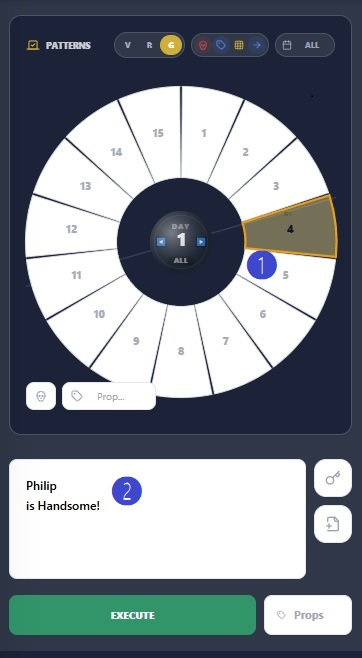
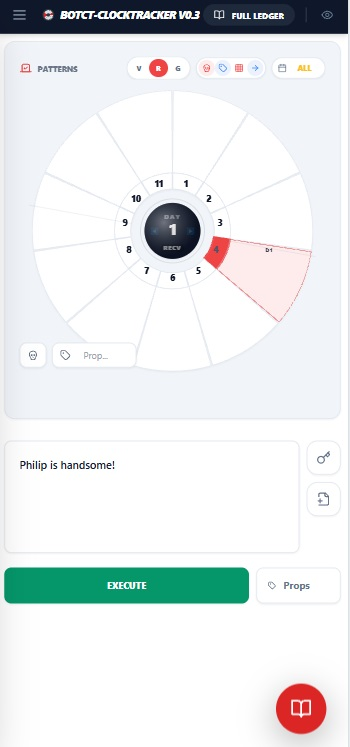
Clock Current player shadowing display

diff --git a/src/components/popitems/VoteHistoryClock/PlayerSlices.tsx b/src/components/popitems/VoteHistoryClock/PlayerSlices.tsx
@@ -34,7 +34,7 @@ const PlayerSlices: React.FC<PlayerSlicesProps> = ({
         const pd = deaths.find(d => d.playerNo === numStr);
         const pData = players.find(p => p.no === num);
         
-        const fill = isVoter ? 'var(--accent-color)' : isCurrent ? 'var(--panel-color)' : 'var(--panel-color)';
+        const Voterfill = isVoter ? 'var(--accent-color)' :'';
         const stroke = isCurrent ? 'var(--accent-color)' : assignmentMode === 'death' ? '#ef4444' : assignmentMode === 'property' ? '#3b82f6' : 'var(--border-color)';
 
         const angleStep = 360 / playerCount;
@@ -47,15 +47,15 @@ const PlayerSlices: React.FC<PlayerSlicesProps> = ({
 
         const properties = pData?.property ? pData.property.split('|').filter(Boolean) : [];
         const label = identityMode === 'name' && pData?.name ? pData.name : num;
-
+        /// Main Slice --> Data Rings voteinfo --> Data Rings (alive/diednow/diedlater) --> Death/Prop display --> Current view --> Voter
         return (
           <g key={num} onMouseDown={(e) => onStart(num, e)} onTouchStart={(e) => onStart(num, e)} className="cursor-pointer group">
             {/* Main Interactive Slice - now starts from sliceStartRadius */}
             <path 
               d={getSlicePath(i, playerCount, innerRadius, outerRadius)} 
-              fill={fill} 
+              fill='rgba(var(--bg-color-rgb), 0.85)'
               stroke={stroke} 
-              strokeWidth={isCurrent ? "2" : "0.75"} 
+              strokeWidth={isCurrent ? "3" : "0.75"} 
               className="transition-colors duration-200"
             />
             
@@ -66,18 +66,22 @@ const PlayerSlices: React.FC<PlayerSlicesProps> = ({
               const vCount = (votedAtDay[numStr] || {})[dayNum];
               const diedNow = pd && dayNum === pd.day;
               const diedLater = pd && dayNum > pd.day;
+              const diedBefore = !pd || pd && dayNum < pd.day;
               const rs = innerRadius + rIdx * ringWidth;
               const re = rs + ringWidth;
               const pos = getPosition(num, playerCount, (rs + re) / 2);
               
               let ringFill = 'transparent';
               if (vCount !== undefined) {
-                ringFill = 'rgba(var(--accent-color-rgb), 0.8)';
-              } else if (diedNow) {
-                ringFill = 'rgba(var(--muted-color-rgb), 0.3)';
+                ringFill = 'rgba(var(--accent-color-rgb), 0.6)';
+              } else if (diedBefore) {
+                ringFill = 'var(--panel-color)';
               } else if (diedLater) {
-                ringFill = 'rgba(var(--bg-color-rgb), 0.95)';
-              }
+                ringFill = 'rgba(var(--bg-color-rgb), 0.5)';
+              } else if (diedNow) {
+                ringFill = 'rgba(var(--muted-color-rgb), 0.25)';
+              } 
+              
 
               return (
                 <g key={`${num}-${dayNum}`} className="pointer-events-none">
@@ -118,15 +122,29 @@ const PlayerSlices: React.FC<PlayerSlicesProps> = ({
               </g>
             )}
 
+            {isCurrent && <path 
+              d={getSlicePath(i, playerCount, innerRadius, outerRadius)} 
+              fill="rgba(var(--accent-color-rgb), 0.1)" 
+              strokeWidth="2" 
+
+            />}
+            {isVoter && <path 
+              d={getSlicePath(i, playerCount, innerRadius, outerRadius)} 
+              fill = "var(--accent-color)"
+            />}
+            
+
+
             {/* Player ID/Name label positioned in the inner "Label Zone" */}
             <path 
               d={getSlicePath(i, playerCount, sliceStartRadius, innerRadius)} 
               // fill='var(--bg-color)'
               stroke={stroke} 
-              strokeWidth={isCurrent ? "2" : "0.75"} 
+              strokeWidth={isCurrent ? "3" : "0.75"} 
               className={`transition-colors duration-200
                 ${isVoter ? 'fill-[var(--accent-color)]' : isCurrent ? 'fill-[var(--accent-color)]' : pd ? 'fill-[var(--bg-color)]' : 'fill-[var(--panel-color)]'}`}
             />
+            
 
             <text 
               x={getPosition(num, playerCount, labelRadius).x} 

diff --git a/src/components/popitems/VoteHistoryClock/VoteHistoryClock.tsx b/src/components/popitems/VoteHistoryClock/VoteHistoryClock.tsx
@@ -171,13 +171,7 @@ const VoteHistoryClock: React.FC<VoteHistoryClockProps> = (props) => {
         onMouseMove={(e) => handleMove(e.clientX, e.clientY)} onMouseUp={handleEnd} onMouseLeave={handleEnd}
         onTouchMove={(e) => handleMove(e.touches[0].clientX, e.touches[0].clientY)} onTouchEnd={handleEnd}
       >
-        <defs>
-          <radialGradient id="playerSpotlight" cx="0%" cy="50%" r="100%">
-            <stop offset="0%" stopColor="var(--bg-color)" stopOpacity="0" />
-            <stop offset="50%" stopColor="var(--bg-color)" stopOpacity="0" />
-            <stop offset="100%" stopColor="var(--bg-color)" stopOpacity="0" />
-          </radialGradient>
-        </defs>
+        
         
         <PlayerSlices 
           playerCount={props.playerCount} playerNo={props.playerNo} isVoting={props.isVoting} pendingNomVoters={props.pendingNom?.voters ?? []}

diff --git a/src/App.tsx b/src/App.tsx
@@ -99,6 +99,7 @@ export default function App() {
       '--bg-color': c.bg,
       '--bg-color-rgb': hexToRgb(c.bg),
       '--panel-color': c.panel,
+      '--panel-color-rgb': hexToRgb(c.panel),
       '--header-color': c.header,
       '--accent-color': c.accent,
       '--accent-color-rgb': hexToRgb(c.accent),
